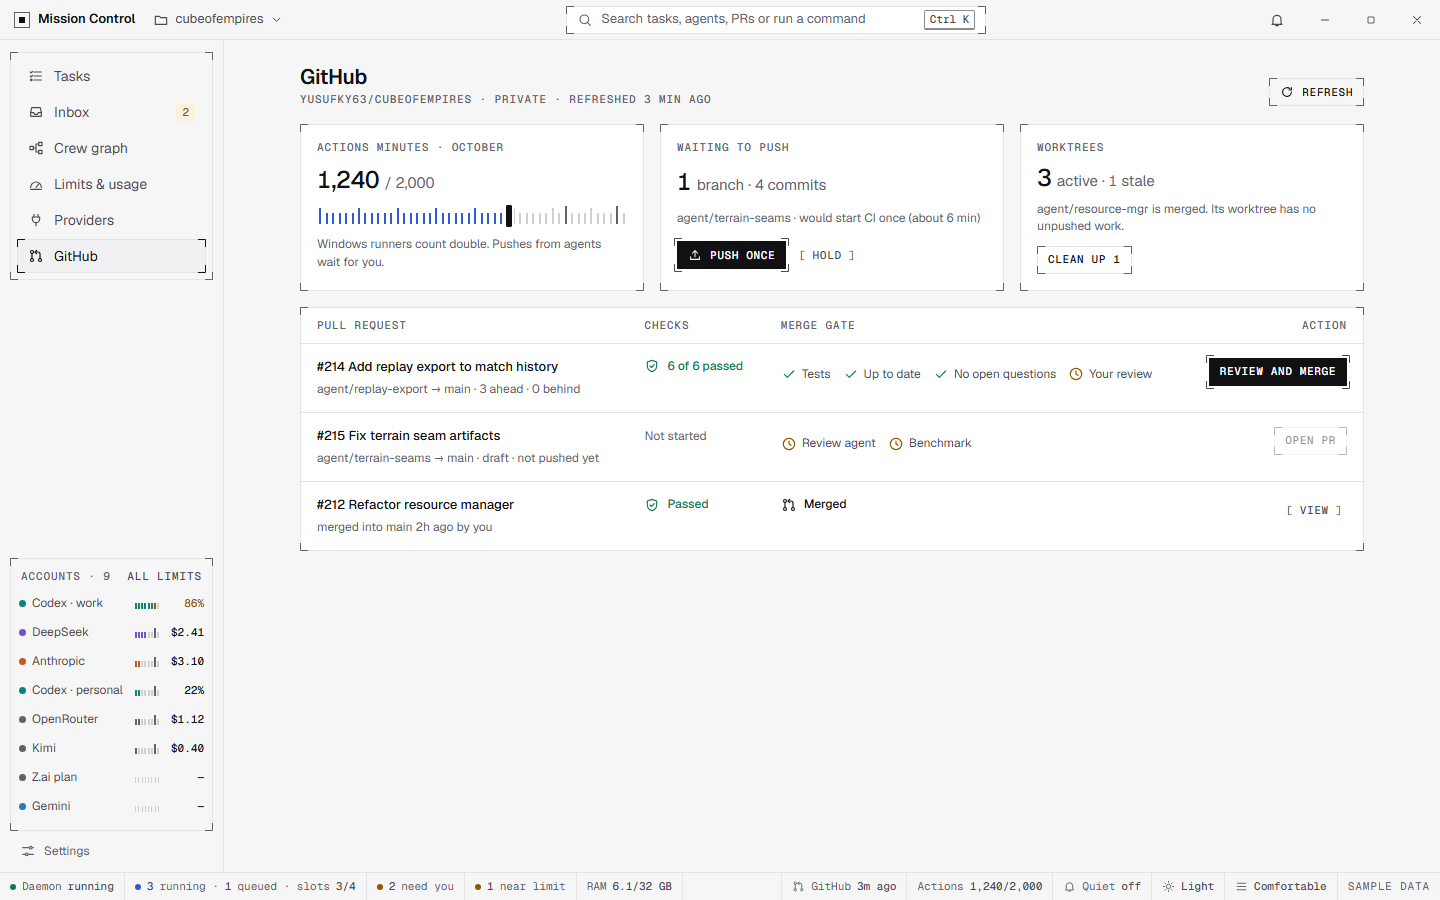
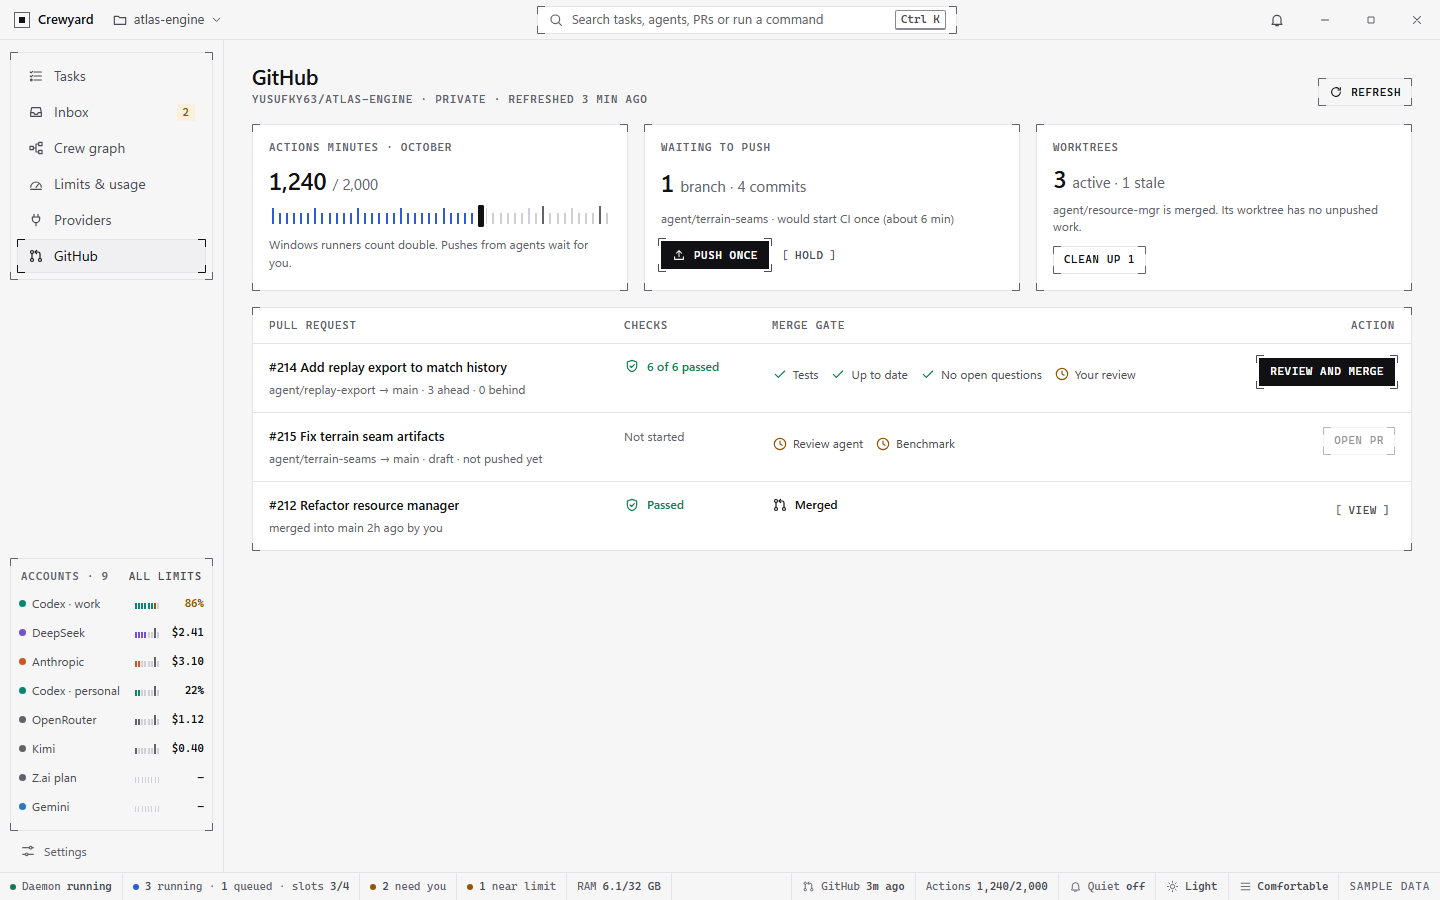
Replace the owner's project names in the design sample data and re-shoot the screens

diff --git a/design/prototype.html b/design/prototype.html
@@ -471,7 +471,7 @@ tr.dim .prov-name{color:var(--ink-2)}
 <div class="app">
   <header class="titlebar">
     <div class="brand"><span class="mark" aria-hidden="true"></span>Crewyard</div>
-    <button class="tb-chip" aria-label="Switch project" data-screen="start"><svg class="i"><use href="#i-folder"/></svg>cubeofempires<svg class="i" style="width:13px;height:13px"><use href="#i-down"/></svg></button>
+    <button class="tb-chip" aria-label="Switch project" data-screen="start"><svg class="i"><use href="#i-folder"/></svg>atlas-engine<svg class="i" style="width:13px;height:13px"><use href="#i-down"/></svg></button>
     <div class="search" role="button" tabindex="0"><svg class="i"><use href="#i-search"/></svg><span class="search-t">Search tasks, agents, PRs or run a command</span><span class="kbd">Ctrl K</span></div>
     <button class="tb-btn" aria-label="Notifications"><svg class="i"><use href="#i-bell"/></svg></button>
     <div class="win" aria-hidden="true">
@@ -545,42 +545,42 @@ tr.dim .prov-name{color:var(--ink-2)}
             <div class="recent-grid">
               <button class="spec ptile" data-screen="tasks">
                 <div class="role-top"><span class="lbl">01</span><span class="role-art"><svg viewBox="0 0 34 34"><path d="M17 4 30 17 17 30 4 17z"/><path d="M17 10 24 17 17 24 10 17z"/></svg></span></div>
-                <div class="p-name">cubeofempires</div>
-                <div class="p-path" title="C:\Projeler\cubeofempires">C:\Projeler\cubeofempires</div>
+                <div class="p-name">atlas-engine</div>
+                <div class="p-path" title="C:\Users\dev\code\atlas-engine">C:\Users\dev\code\atlas-engine</div>
                 <div class="p-meta"><span class="st run" style="font-size:12px"><span class="spin"></span>3 running</span> · <span style="color:var(--warn)">2 need you</span></div>
                 <div class="lbl">Opened 2 min ago</div>
               </button>
               <button class="spec ptile" data-screen="tasks">
                 <div class="role-top"><span class="lbl">02</span><span class="role-art"><svg viewBox="0 0 34 34"><path d="M6 27 14 9l6 12 4-6 4 12"/><path d="M4 27h26" stroke-dasharray="1 2.5"/></svg></span></div>
-                <div class="p-name">stick-war</div>
-                <div class="p-path" title="C:\Projeler\stick-war">C:\Projeler\stick-war</div>
+                <div class="p-name">harbor-api</div>
+                <div class="p-path" title="C:\Users\dev\code\harbor-api">C:\Users\dev\code\harbor-api</div>
                 <div class="p-meta">main · clean · idle</div>
                 <div class="lbl">Yesterday</div>
               </button>
               <button class="spec ptile" data-screen="tasks">
                 <div class="role-top"><span class="lbl">03</span><span class="role-art"><svg viewBox="0 0 34 34"><rect x="5" y="5" width="8" height="8"/><rect x="21" y="5" width="8" height="8"/><rect x="5" y="21" width="8" height="8"/><rect x="21" y="21" width="8" height="8" fill="currentColor"/></svg></span></div>
-                <div class="p-name">agesofcommand</div>
-                <div class="p-path" title="C:\Projeler\agesofcommand">C:\Projeler\agesofcommand</div>
+                <div class="p-name">northwind-web</div>
+                <div class="p-path" title="C:\Users\dev\code\northwind-web">C:\Users\dev\code\northwind-web</div>
                 <div class="p-meta">1 PR ready for review</div>
                 <div class="lbl">3 days ago</div>
               </button>
               <button class="spec ptile" data-screen="tasks">
                 <div class="role-top"><span class="lbl">04</span><span class="role-art"><svg viewBox="0 0 34 34"><rect x="4" y="7" width="26" height="20"/><path d="M4 12h26M9 17h10M9 21h14"/></svg></span></div>
-                <div class="p-name">translaterr-ai</div>
-                <div class="p-path" title="C:\Projeler\translaterr-ai">C:\Projeler\translaterr-ai</div>
+                <div class="p-name">ledger-cli</div>
+                <div class="p-path" title="C:\Users\dev\code\ledger-cli">C:\Users\dev\code\ledger-cli</div>
                 <div class="p-meta">main · 2 unpushed commits</div>
                 <div class="lbl">Last week</div>
               </button>
               <button class="spec ptile" data-screen="tasks">
                 <div class="role-top"><span class="lbl">05</span><span class="role-art"><svg viewBox="0 0 34 34"><path d="M5 8h24M8 14h18M11 20h12M14 26h6"/></svg></span></div>
-                <div class="p-name">sift</div>
-                <div class="p-path" title="C:\Projeler\sift">C:\Projeler\sift</div>
+                <div class="p-name">quill-notes</div>
+                <div class="p-path" title="C:\Users\dev\code\quill-notes">C:\Users\dev\code\quill-notes</div>
                 <div class="p-meta">main · clean · idle</div>
                 <div class="lbl">2 weeks ago</div>
               </button>
               <button class="spec ptile ptile-new" data-screen="setup">
                 <div class="role-top"><span class="lbl">+</span><span class="role-art"><svg viewBox="0 0 34 34"><path d="M17 8v18M8 17h18"/></svg></span></div>
-                <div class="p-name">Import from C:\Projeler</div>
+                <div class="p-name">Import from C:\Users\dev\code</div>
                 <div class="p-meta">8 git repositories found, 5 not added yet</div>
                 <div class="lbl">Scan again</div>
               </button>
@@ -619,13 +619,13 @@ tr.dim .prov-name{color:var(--ink-2)}
             <h2>Where is the project?</h2>
             <p class="sec">Pick a folder you already have, clone one, or start empty. Crewyard reads it to suggest commands.</p>
             <div style="margin:16px 0 4px"><div class="seg" role="group" aria-label="Source"><button aria-pressed="true">Local folder</button><button aria-pressed="false">Clone from GitHub</button><button aria-pressed="false">Empty folder</button></div></div>
-            <div class="row-input"><span class="input">C:\Projeler\new-rts</span><button class="btn">Browse</button></div>
+            <div class="row-input"><span class="input">C:\Users\dev\code\kestrel-game</span><button class="btn">Browse</button></div>
             <div class="check-list">
               <div class="cl"><span class="st ok"><svg class="i"><use href="#i-check"/></svg></span><span class="muted">Git repository</span><span>main · 2 commits · clean</span><span></span></div>
-              <div class="cl"><span class="st ok"><svg class="i"><use href="#i-check"/></svg></span><span class="muted">Project type</span><span>Godot 4 · C# <span class="muted mono" style="font-size:12px">from project.godot, NewRts.csproj</span></span><span></span></div>
+              <div class="cl"><span class="st ok"><svg class="i"><use href="#i-check"/></svg></span><span class="muted">Project type</span><span>Godot 4 · C# <span class="muted mono" style="font-size:12px">from project.godot, KestrelGame.csproj</span></span><span></span></div>
               <div class="cl"><span class="st ok"><svg class="i"><use href="#i-check"/></svg></span><span class="muted">Build command</span><span class="mono" style="font-size:12px">dotnet build</span><button class="btn btn-sm btn-ghost">Edit</button></div>
               <div class="cl"><span class="st ok"><svg class="i"><use href="#i-check"/></svg></span><span class="muted">Test command</span><span class="mono" style="font-size:12px">dotnet test</span><button class="btn btn-sm btn-ghost">Edit</button></div>
-              <div class="cl"><span class="st ok"><svg class="i"><use href="#i-check"/></svg></span><span class="muted">Worktrees</span><span class="mono" style="font-size:12px">C:\Projeler\.crewyard\worktrees\new-rts</span><button class="btn btn-sm btn-ghost">Change</button></div>
+              <div class="cl"><span class="st ok"><svg class="i"><use href="#i-check"/></svg></span><span class="muted">Worktrees</span><span class="mono" style="font-size:12px">C:\Users\dev\code\.crewyard\worktrees\kestrel-game</span><button class="btn btn-sm btn-ghost">Change</button></div>
               <div class="cl"><span class="st ok"><svg class="i"><use href="#i-check"/></svg></span><span class="muted">Path length</span><span>longest path in a worktree: 118 of 260 characters</span><span></span></div>
               <div class="cl"><span class="st wait"><svg class="i"><use href="#i-alert"/></svg></span><span class="muted">GitHub remote</span><span>none yet, set it up in step 5</span><span></span></div>
             </div>
@@ -690,7 +690,7 @@ tr.dim .prov-name{color:var(--ink-2)}
       <!-- TASKS -->
       <section class="screen" id="s-tasks" aria-label="Tasks">
         <div class="page-head">
-          <div><h1>Tasks</h1><div class="sub lbl">cubeofempires · C:\Projeler\cubeofempires</div></div>
+          <div><h1>Tasks</h1><div class="sub lbl">atlas-engine · C:\Users\dev\code\atlas-engine</div></div>
           <div class="right"><button class="btn btn-ghost btn-sm"><svg class="i"><use href="#i-term"/></svg>Activity</button></div>
         </div>
 
@@ -698,7 +698,7 @@ tr.dim .prov-name{color:var(--ink-2)}
           <label class="lbl" for="taskInput" style="display:block;margin-bottom:8px">New task</label>
           <textarea id="taskInput" rows="2">Optimize unit pathfinding for 2,000 units on the benchmark map and keep the frame time under 16 ms.</textarea>
           <div class="composer-row">
-            <button class="chip"><svg class="i"><use href="#i-folder"/></svg><b>cubeofempires</b><svg class="i" style="width:13px"><use href="#i-down"/></svg></button>
+            <button class="chip"><svg class="i"><use href="#i-folder"/></svg><b>atlas-engine</b><svg class="i" style="width:13px"><use href="#i-down"/></svg></button>
             <button class="chip"><svg class="i"><use href="#i-branch"/></svg><b>main</b><svg class="i" style="width:13px"><use href="#i-down"/></svg></button>
             <button class="chip"><svg class="i"><use href="#i-crew"/></svg>Crew<b>Suggested</b><svg class="i" style="width:13px"><use href="#i-down"/></svg></button>
             <button class="chip"><svg class="i"><use href="#i-swap"/></svg>On limit<b>Ask first</b><svg class="i" style="width:13px"><use href="#i-down"/></svg></button>
@@ -778,7 +778,7 @@ tr.dim .prov-name{color:var(--ink-2)}
           <div class="task" data-open="true">
             <button class="task-top" aria-expanded="true">
               <div><div class="task-title">Fix terrain seam artifacts at chunk borders</div>
-                <div class="task-meta"><span><svg class="i"><use href="#i-folder"/></svg>cubeofempires</span><span><svg class="i"><use href="#i-branch"/></svg>agent/terrain-seams</span><span><i class="dot" style="--c:var(--s-claude)"></i><i class="dot" style="--c:var(--s-codex)"></i><i class="dot" style="--c:var(--s-opencode)"></i>3 agents</span></div></div>
+                <div class="task-meta"><span><svg class="i"><use href="#i-folder"/></svg>atlas-engine</span><span><svg class="i"><use href="#i-branch"/></svg>agent/terrain-seams</span><span><i class="dot" style="--c:var(--s-claude)"></i><i class="dot" style="--c:var(--s-codex)"></i><i class="dot" style="--c:var(--s-opencode)"></i>3 agents</span></div></div>
               <div class="task-right"><span class="num">14m 02s</span><svg class="i"><use href="#i-up"/></svg></div>
             </button>
             <div class="task-status"><span class="st run"><span class="spin"></span>Running benchmark scene</span><span class="muted" style="font-size:12px">OpenCode · deepseek-flash</span></div>
@@ -809,7 +809,7 @@ tr.dim .prov-name{color:var(--ink-2)}
           <div class="task">
             <button class="task-top" aria-expanded="false">
               <div><div class="task-title">Add replay export to match history</div>
-                <div class="task-meta"><span><svg class="i"><use href="#i-folder"/></svg>cubeofempires</span><span><svg class="i"><use href="#i-branch"/></svg>agent/replay-export</span><span><i class="dot" style="--c:var(--s-codex)"></i><i class="dot" style="--c:var(--s-claude)"></i>2 agents</span></div></div>
+                <div class="task-meta"><span><svg class="i"><use href="#i-folder"/></svg>atlas-engine</span><span><svg class="i"><use href="#i-branch"/></svg>agent/replay-export</span><span><i class="dot" style="--c:var(--s-codex)"></i><i class="dot" style="--c:var(--s-claude)"></i>2 agents</span></div></div>
               <div class="task-right"><span class="num">38m</span><svg class="i"><use href="#i-down"/></svg></div>
             </button>
             <div class="task-status"><span class="st ok"><svg class="i"><use href="#i-check"/></svg>Ready for review</span><span class="diff"><span class="add">+125</span><span class="del">−18</span><span class="diffbar"><span style="flex:125"></span><span style="flex:18"></span></span><span class="muted">7 files</span></span><span class="st ok" style="font-size:12px"><svg class="i"><use href="#i-shield"/></svg>Checks passed</span><span class="muted" style="font-size:12px">PR #214 · not merged</span><div class="end"><button class="btn btn-sm btn-primary" data-goto="github">Review PR</button></div></div>
@@ -852,7 +852,7 @@ tr.dim .prov-name{color:var(--ink-2)}
               <p class="sec">Asked in <b style="font-weight:500;color:var(--ink)">Add replay export to match history</b>, step 3 of 4.</p>
               <div class="code">dotnet test Game.Tests --no-build</div>
               <dl class="kv">
-                <dt>Working directory</dt><dd class="mono" style="font-size:12px">C:\Projeler\.crewyard\worktrees\cubeofempires\replay-export</dd>
+                <dt>Working directory</dt><dd class="mono" style="font-size:12px">C:\Users\dev\code\.crewyard\worktrees\atlas-engine\replay-export</dd>
                 <dt>Scope</dt><dd>Reads and writes inside this worktree only. No network.</dd>
                 <dt>Policy</dt><dd>Not in this project's allowlist yet.</dd>
                 <dt>Requested by</dt><dd><i class="dot" style="--c:var(--s-claude)"></i> Review · Claude Code · API key</dd>
@@ -894,7 +894,7 @@ tr.dim .prov-name{color:var(--ink-2)}
       <!-- GRAPH -->
       <section class="screen" id="s-graph" aria-label="Crew graph">
         <div class="page-head">
-          <div><h1>Crew graph</h1><div class="sub lbl">#COE-118 · Fix terrain seam artifacts · 5 runs · 14m 02s</div></div>
+          <div><h1>Crew graph</h1><div class="sub lbl">#ATL-118 · Fix terrain seam artifacts · 5 runs · 14m 02s</div></div>
           <div class="right">
             <div class="seg" role="group" aria-label="Edges"><button aria-pressed="true">Tasks</button><button aria-pressed="false">Messages</button><button aria-pressed="false">Files</button></div>
             <button class="btn btn-sm btn-ghost" id="resetLayout">Reset layout</button>
@@ -913,7 +913,7 @@ tr.dim .prov-name{color:var(--ink-2)}
               <span class="annot" id="limitAnnot" style="color:var(--warn)">Limit 86% · 5h window<br><span style="color:var(--ink-3)">resets 16:40</span></span>
 
               <div class="gnode spec" data-id="task" style="left:16px;top:220px" tabindex="0" data-menu="task" data-label="Task · Fix terrain seams">
-                <span class="lbl">Task · #COE-118</span>
+                <span class="lbl">Task · #ATL-118</span>
                 <div class="name">Fix terrain seams</div>
                 <div class="facts">main → agent/terrain-seams</div>
               </div>
@@ -1139,7 +1139,7 @@ tr.dim .prov-name{color:var(--ink-2)}
       <!-- GITHUB -->
       <section class="screen" id="s-github" aria-label="GitHub">
         <div class="page-head">
-          <div><h1>GitHub</h1><div class="sub lbl">yusufky63/cubeofempires · private · refreshed 3 min ago</div></div>
+          <div><h1>GitHub</h1><div class="sub lbl">yusufky63/atlas-engine · private · refreshed 3 min ago</div></div>
           <div class="right"><button class="btn btn-sm"><svg class="i"><use href="#i-refresh"/></svg>Refresh</button></div>
         </div>
         <div class="gh-top">
@@ -1197,7 +1197,7 @@ tr.dim .prov-name{color:var(--ink-2)}
         <div><span class="lbl">Cost</span><div class="v" style="font-size:13px">Subscription</div></div>
         <div><span class="lbl">Files</span><div class="v">6 changed</div></div>
       </div>
-      <div class="ins-sec"><span class="lbl">Worktree</span><div class="mono" style="font-size:12px;word-break:break-all">C:\Projeler\.crewyard\worktrees\cubeofempires\terrain-seams</div></div>
+      <div class="ins-sec"><span class="lbl">Worktree</span><div class="mono" style="font-size:12px;word-break:break-all">C:\Users\dev\code\.crewyard\worktrees\atlas-engine\terrain-seams</div></div>
       <div class="ins-actions">
         <button class="btn btn-primary full"><svg class="i"><use href="#i-reply"/></svg>Message this agent</button>
         <button class="btn"><svg class="i"><use href="#i-pause"/></svg>Pause</button>

diff --git a/apps/desktop/src/main/work.test.ts b/apps/desktop/src/main/work.test.ts
@@ -36,7 +36,7 @@ const request = (id: string, createdAt: string, answeredAt: string | null = null
   answeredBy: null,
 });
 
-const projects: ProjectSummary[] = [{ id: "p1", name: "stick wars", path: "C:\\Projeler\\stick wars", lastOpenedAt: null }];
+const projects: ProjectSummary[] = [{ id: "p1", name: "harbor api", path: "C:\\Projeler\\harbor api", lastOpenedAt: null }];
 
 describe("work summary", () => {
   it("counts every run that has not ended and lands on the oldest open request", () => {
@@ -45,7 +45,7 @@ describe("work summary", () => {
     expect(w.needYou).toBe(2);
     expect(w.firstRequest).toEqual({ projectId: "p1", taskId: "t1", requestId: "q1" });
     expect(w.runningTasks.map((x) => [x.title, x.projectName])).toEqual([
-      ["Task t1", "stick wars"],
+      ["Task t1", "harbor api"],
       ["Task t3", "p9"],
     ]);
   });
@@ -53,11 +53,11 @@ describe("work summary", () => {
   it("names what quitting stops, in either language, and counts the rest", () => {
     const tasks = Array.from({ length: 8 }, (_, i) => task(`t${i}`, 1));
     const en = quitDetail(summarize(tasks, [], projects), translator("en"), 6);
-    expect(en).toContain("· Task t0 · stick wars");
+    expect(en).toContain("· Task t0 · harbor api");
     expect(en).not.toContain("Task t6");
     expect(en).toContain("· and 2 more");
     const tr = quitDetail(summarize(tasks.slice(0, 1), [], projects), translator("tr"));
-    expect(tr).toContain("Şunlar şimdi durur:\n· Task t0 · stick wars");
+    expect(tr).toContain("Şunlar şimdi durur:\n· Task t0 · harbor api");
   });
 });
 

diff --git a/apps/desktop/src/renderer/src/shell/titlebar/search.test.ts b/apps/desktop/src/renderer/src/shell/titlebar/search.test.ts
@@ -29,8 +29,8 @@ describe("rankCommands", () => {
     { id: "s:limits", group: "screen", title: "Limits" },
     { id: "a:new-task", group: "action", title: "New task" },
     { id: "p:old", group: "project", title: "old-game", keywords: "C:\\Projeler\\old-game", recency: "2026-10-01T00:00:00Z" },
-    { id: "p:new", group: "project", title: "stick wars", keywords: "C:\\Projeler\\stick wars", recency: "2026-10-29T00:00:00Z" },
-    { id: "t:1", group: "task", title: "Fix the limits banner", keywords: "stick wars", recency: "2026-10-28T00:00:00Z" },
+    { id: "p:new", group: "project", title: "harbor api", keywords: "C:\\Projeler\\harbor api", recency: "2026-10-29T00:00:00Z" },
+    { id: "t:1", group: "task", title: "Fix the limits banner", keywords: "harbor api", recency: "2026-10-28T00:00:00Z" },
     { id: "t:2", group: "task", title: "Add task search", keywords: "old-game", recency: "2026-10-27T00:00:00Z" },
   ];
 
@@ -46,7 +46,7 @@ describe("rankCommands", () => {
   });
 
   it("weights keyword hits below title hits", () => {
-    const ids = rankCommands(cmds, "stick").map((c) => c.id);
+    const ids = rankCommands(cmds, "harbor").map((c) => c.id);
     expect(ids[0]).toBe("p:new");
     expect(ids[1]).toBe("t:1");
   });

diff --git a/docs/public-release-checklist.md b/docs/public-release-checklist.md
@@ -19,7 +19,7 @@ Patterns: Anthropic `sk-ant-`, OpenAI project, service-account and admin keys, O
 | DPAPI blobs | None. |
 | Email addresses in files | Only sample addresses in tests (`github.com` users in remote URLs, a `.com` host in a preview test) and a package author's public address inside `pnpm-lock.yaml`. |
 | Commit metadata | Every commit is authored and committed with a personal Gmail address. See decision 3b. |
-| Large binaries | None of 500 KiB or more. The 62 images are PNG screenshots under `design/screens/` and `docs/research/plan-quota-shots/` and the app icons under `apps/desktop/build/`. The screenshots are rendered from fixture or sample data and show no real key, account balance or token. See decision 3e for the project names in them. |
+| Large binaries | None of 500 KiB or more. The 62 images are PNG screenshots under `design/screens/` and `docs/research/plan-quota-shots/` and the app icons under `apps/desktop/build/`. The screenshots are rendered from fixture or sample data and show no real key, account balance or token. Since decision 3e they show only invented sample project names. |
 | Tracked local files | None: `.claude/`, editor folders, logs and test output were never tracked. `.gitignore` now also covers Claude Code worktrees and local settings, editor folders, Playwright's default output folders and signing certificates. |
 
 ### Before the flip
@@ -63,7 +63,7 @@ c. **The v0.1.0 pre-release.** Its unsigned Windows installer (`Crewyard-Setup-0
 
 d. **Old Actions runs.** The existing workflow runs and their logs become public. The repository has no Actions secrets or variables, so the logs hold no masked values; delete the runs only if you want a clean list.
 
-e. **Your own project names in the design material.** `design/prototype.html` and every screenshot rendered from it (all of `design/screens/*.png`) use the owner's own project names and folders as sample data: in the title-bar project picker, the recent projects, the paths and the GitHub screens. At least one of them is the name of another private repository. If those names should stay unknown, rename the sample projects in the prototype and re-shoot the whole `design/screens/` set, not only some of it. The names stay in history either way.
+e. **Your own project names in the design material.** Done on 2026-10-31: the owner chose "rename and re-shoot". `design/prototype.html` used the owner's own project names and folders as sample data (title-bar project picker, recent projects, paths, GitHub screen, task id prefix), and two renderer tests used a name close to another private repository. The prototype now uses invented projects (`atlas-engine`, `harbor-api`, `northwind-web`, `ledger-cli`, `quill-notes`, `kestrel-game`) under `C:\Users\dev\code`, the tests use `harbor api`, and all 22 `design/screens/*.png` were re-shot from the edited prototype with the same names and sizes. The screenshots in `docs/research/plan-quota-shots/` and `apps/web/public/shots/` already showed only `shot project`, `sample-project` and `crewyard`. The old names stay in git history.
 
 f. **Copyright line in the installer.** Settled on 2026-10-31: the installer, the exe metadata, LICENSE and NOTICE all say "Copyright (c) 2026 Yusuf", from the single `LICENCE` constant in `apps/desktop/scripts/release-assets.cjs`, which `release-check` compares with LICENSE.
 
